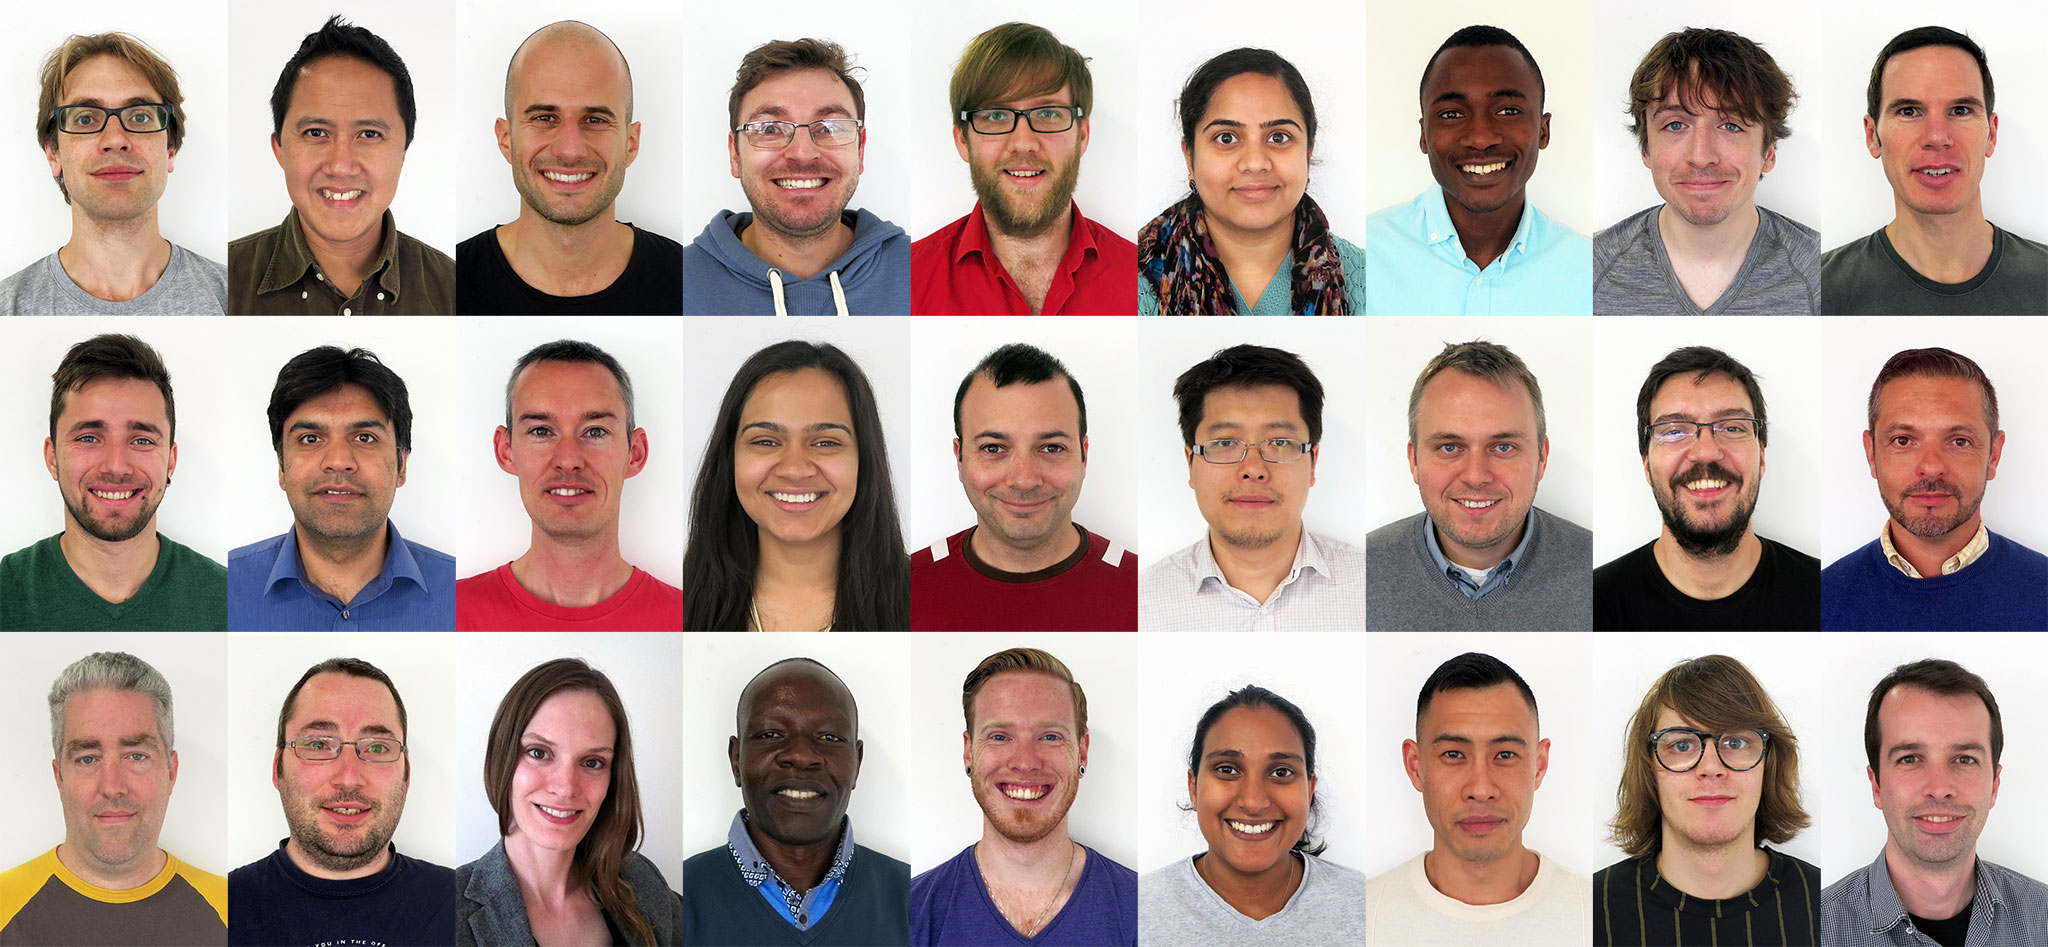
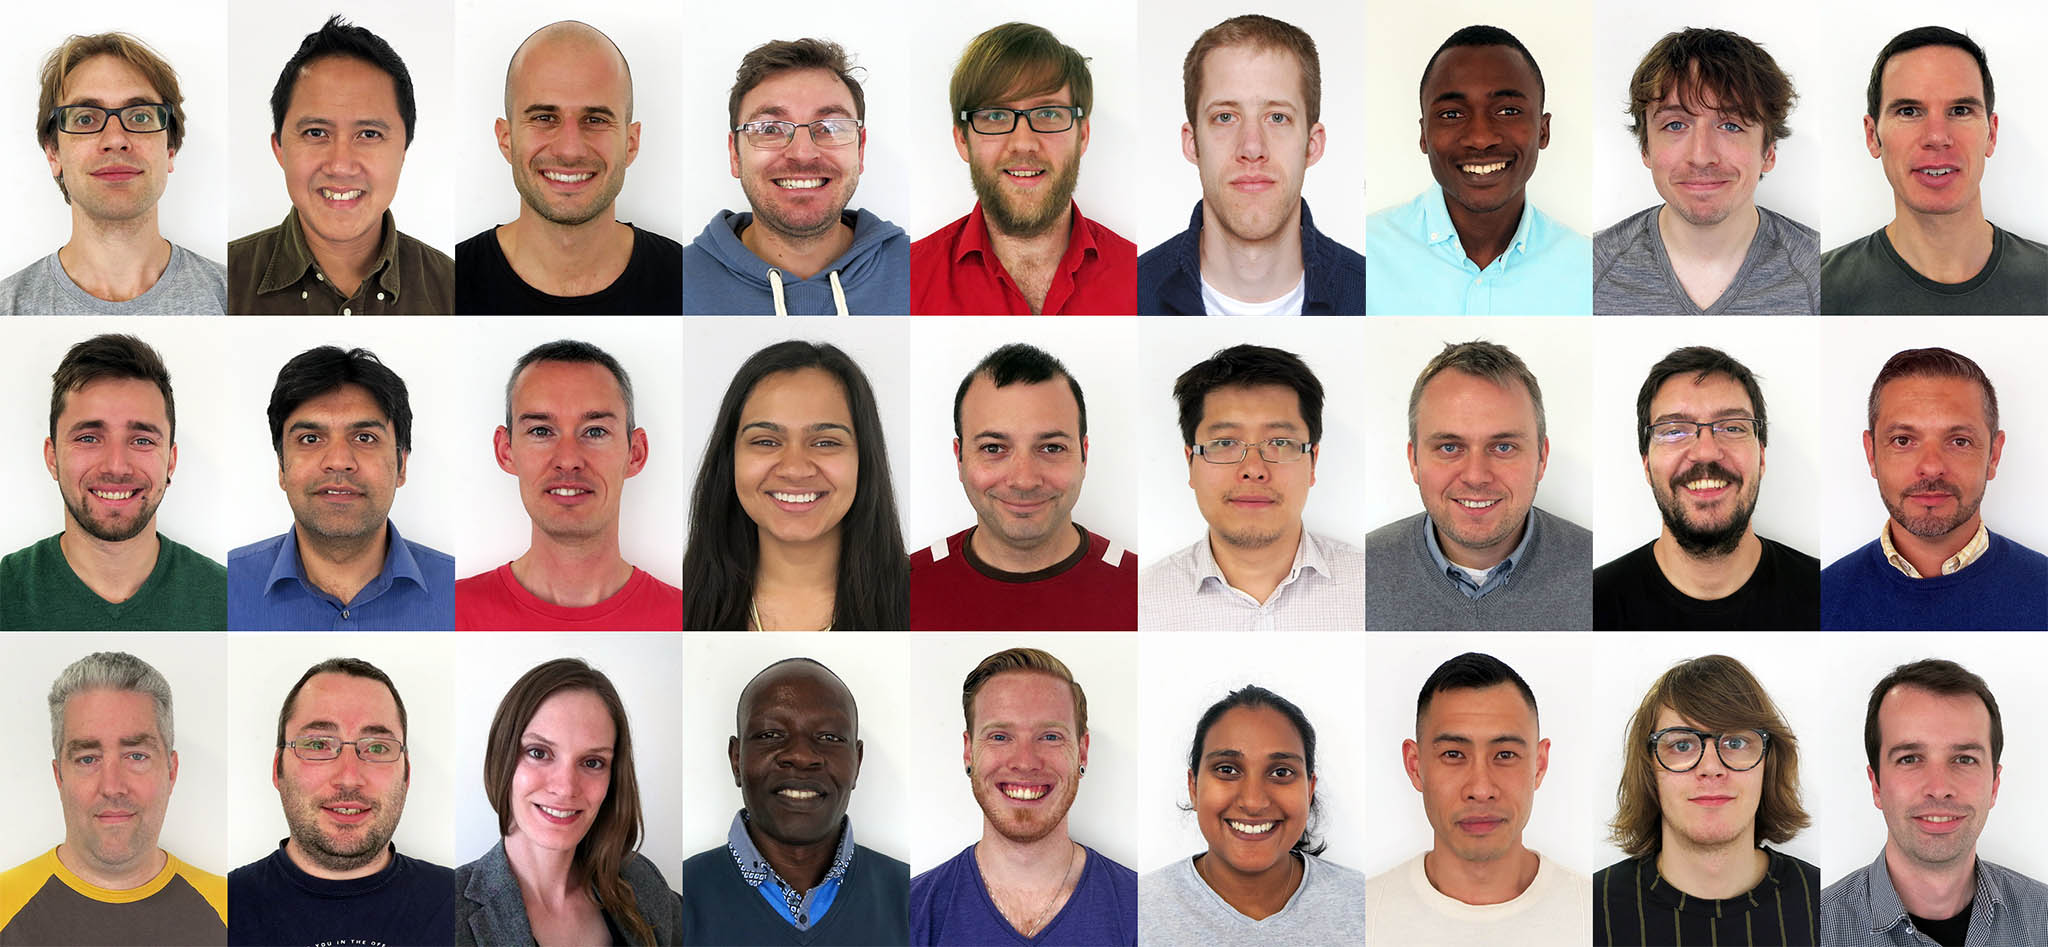
Alessio: replacing Shalini's picture with Hilverd's one - adding the title attar to the <li>

Changed region(s): [[0.5312, 0.0, 0.6875, 0.3369]]

diff --git a/assets/js/min/joinit-springer.min.js b/assets/js/min/joinit-springer.min.js
@@ -1,2 +1,2 @@
-/*! joinit-springer 2013-10-17 */
-!function(a){a.fn.fitText=function(b,c){var d=b||1,e=a.extend({minFontSize:Number.NEGATIVE_INFINITY,maxFontSize:Number.POSITIVE_INFINITY},c);return this.each(function(){var b=a(this),c=function(){b.css("font-size",Math.max(Math.min(b.width()/(10*d),parseFloat(e.maxFontSize)),parseFloat(e.minFontSize)))};c(),a(window).on("resize.fittext orientationchange.fittext",c)})}}(jQuery),function(a){a.fn.imageFlipper=function(b){var c=a.extend({rows:3,columns:9},b),d=["Jim, software engineer.","Aditya, ux designer.","Pat, technical principal.","Rob, front-end developer.","Chris, software engineer.","Shalini, quality analyst.","Uthman, quality analyst.","Dan, software engineer.","Ben, agile coach.","Cris, software engineer.","Rizwan, software engineer.","Stephen, business analyst.","Reshma, all round great person.","Brian, product owner.","Ai, software engineer.","Ross, technical architect.","Hector, platform engineer.","Paulo, ux designer.","John, software engineer.","Mike, technical architect.","Kristen, business analyst.","Charles, quality analyst.","Todd, front-end developer.","Anjalie, business analyst.","Andrew, ui designer.","Simon, platform engineer.","Rob, software engineer."];return this.each(function(){var b=a(this),e=responsiveImages.getImagePrefix({_tablet:1023,_widescreen:99999}),f=responsiveImages.buildImagePath(b.data("frontimage"),e),g=responsiveImages.buildImagePath(b.data("backimage"),e),h=a("<img/>"),i=a("<img/>"),j=b.data("cssprefix"),k=0,l=0,m=a("<ul/>").addClass("imageFlipper");h.on("load",function(){var e=this,h=responsiveImages.isRetina?2:1;l=e.height/c.rows/h,k=e.width/c.columns/h;for(var n=0,o=0,p=0;n<c.rows*c.columns;){var q=a("<li/>").css({width:k,height:l}).attr("tabIndex",0).on("click",function(){var b=a(this);b.addClass("over").siblings().removeClass("over")}).appendTo(m),r=a("<div title='"+d[n]+"'/>").appendTo(q);a("<span class='front'/>").css({backgroundImage:"url("+j+f+")",backgroundPosition:-k*p+"px -"+l*o+"px",backgroundSize:e.width/h+"px "+e.height/h+"px",width:k,height:l,display:"block"}).appendTo(r),a("<span class='back'/>").css({backgroundImage:"url("+j+g+")",backgroundPosition:-k*p+"px -"+l*o+"px",backgroundSize:e.width/h+"px "+e.height/h+"px",width:k,height:l,display:"block"}).appendTo(r),n++,o=Math.floor(n/c.columns),p=n%c.columns}i.attr("src",j+g),m.insertAfter(b)}),h.attr("src",j+f)})}}(jQuery),function(){function a(){var a=e.$w.scrollTop(),b=e.$w.innerHeight(),c=Math.floor((a+b/2-e.parFx.position().top)/e.panelHeight);e.panels.removeClass("active").eq(c).addClass("active")}function b(){var a=e.$w.innerHeight(),b=e.$w.scrollTop();$("html").innerHeight(),e.panels.each(function(){var c=$(this),d=c.position(),f=c.find("img"),g=d.top>a+b||d.top+c.innerHeight()<b;if(!g){var h=f.innerHeight()-e.panelHeight,i=h/(a/(b-d.top));f.css({"-webkit-transform":"translateY("+i+"px)","-moz-transform":"translateY("+i+"px)","-ms-transform":"translateY("+i+"px)",transform:"translateY("+i+"px)"})}})}function c(){var a=e.parFx.innerWidth();e.panelHeight=a*g.imageRatio(),e.panels.each(function(){$(this).css({height:Math.floor(e.panelHeight),"font-size":100*(a/f)+"%"})})}function d(){var a=!0;responsiveImages.noscriptHack($(".storyboards").find(".responsive"),{_smartphone:600,_tablet:1024,_widescreen:99999},function(){g.noParallax()||b()},a),responsiveImages.noscriptHack($(".our-workplace .home-section__grid, .our-culture, .home-section--our-people, .looking-for__photo").find(".responsive"),{_tablet:1024,_widescreen:99999},null,a),responsiveImages.noscriptHack($(".our-workplace .map, .our-products__product").find(".responsive"),{_tablet:1024,_widescreen:99999})}var e={},f=1440,g={mobileBreakPoint:1024,isMobile:function(){return e.$w.innerWidth()<=g.mobileBreakPoint},imageRatio:function(){return this.noParallax()?.4:.4},isTouch:"ontouchstart"in window||navigator.msMaxTouchPoints>0,isIe:$("html").is(".ie9, .lt-ie9"),ieVer:function(){for(var a=$("html"),b=null,c=7;10>c;c++)if(a.is(".ie"+c)){b=c;break}return b}(),noParallax:function(){return!0}};$().ready(function(){$("html").removeClass("no-js");var f=$("<div/>").addClass("QRcode");$("<img/>").attr({src:"https://chart.googleapis.com/chart?cht=qr&chs=75x75&chl="+location.href}).appendTo(f),$("<span/>").text(location.href).appendTo(f),f.appendTo($(".roles .home-section__heading"));var h=$(".storyboards__wrapper"),i=(h.position(),h.children(".storyboards__board")),j=$(window),k=i.eq(0).innerHeight();e={parFx:h,panels:i,$w:j,panelHeight:k,fitTexts:$(".fitText")},e.fitTexts.each(function(){var a=$(this);a.fitText(parseFloat(a.data("fittextcompressor")||1),{minFontSize:parseFloat(a.data("fittextminsize")||14)})}),j.on("resize",function(){$(document.body).toggleClass("noParallax",g.noParallax()),c(),a(),g.noParallax()||b()}),j.on("scroll",function(){a(),g.noParallax()||b()}),h.on("click","a",function(a){a.preventDefault();var b=$(this).closest(".storyboards__board").next(),c=e.$w.innerHeight();scrollTop=b.position().top-c/2+b.innerHeight()/2,$("html,body").animate({scrollTop:scrollTop},600)}),d(),(!g.ieVer||g.ieVer>8)&&$(".imageFlipper").imageFlipper(),j.resize()})}(),function(){$(document.body).toggleClass("mobile",$(window).innerWidth()<1024),window.responsiveImages={noscriptHack:function(a,b,c,d){var e=responsiveImages.getImagePrefix(b,d);a.each(function(){var a=$(this),b=a.data("imgclass"),d=a.attr("alt"),f=responsiveImages.buildImagePath(a.data("baseimg"),e),g=window.document.createElement("img"),h=$(g);c&&h.on("load",c),g.src=f,h.addClass(b).attr("alt",d).insertAfter(a)})},getImagePrefix:function(a,b){var c=1==b?!1:responsiveImages.isRetina,d=$(window).innerWidth();imgFormat="";for(var e in a)if(d<a[e]){imgFormat=e;break}return imgFormat=c?imgFormat+"@2x":imgFormat},buildImagePath:function(a,b){var c=a.split("."),d=c[0],e=c[1];return d+b+"."+e},isRetina:window.devicePixelRatio>1||window.matchMedia&&window.matchMedia("(-webkit-min-device-pixel-ratio: 1.5),(-moz-min-device-pixel-ratio: 1.5),(min-device-pixel-ratio: 1.5)").matches}}();
+/*! joinit-springer 2013-12-04 */
+!function(a){a.fn.fitText=function(b,c){var d=b||1,e=a.extend({minFontSize:Number.NEGATIVE_INFINITY,maxFontSize:Number.POSITIVE_INFINITY},c);return this.each(function(){var b=a(this),c=function(){b.css("font-size",Math.max(Math.min(b.width()/(10*d),parseFloat(e.maxFontSize)),parseFloat(e.minFontSize)))};c(),a(window).on("resize.fittext orientationchange.fittext",c)})}}(jQuery),function(a){a.fn.imageFlipper=function(b){var c=a.extend({rows:3,columns:9},b),d=["Jim, software engineer.","Aditya, ux designer.","Pat, technical principal.","Rob, front-end developer.","Chris, software engineer.","Hilverd, software engineer.","Uthman, quality analyst.","Dan, software engineer.","Ben, agile coach.","Cris, software engineer.","Rizwan, software engineer.","Stephen, business analyst.","Reshma, all round great person.","Brian, product owner.","Ai, software engineer.","Ross, technical architect.","Hector, platform engineer.","Paulo, ux designer.","John, software engineer.","Mike, technical architect.","Kristen, business analyst.","Charles, quality analyst.","Todd, front-end developer.","Anjalie, business analyst.","Andrew, ui designer.","Simon, platform engineer.","Rob, software engineer."];return this.each(function(){var b=a(this),e=responsiveImages.getImagePrefix({_tablet:1023,_widescreen:99999}),f=responsiveImages.buildImagePath(b.data("frontimage"),e),g=responsiveImages.buildImagePath(b.data("backimage"),e),h=a("<img/>"),i=a("<img/>"),j=b.data("cssprefix"),k=0,l=0,m=a("<ul/>").addClass("imageFlipper");h.on("load",function(){var e=this,h=responsiveImages.isRetina?2:1;l=e.height/c.rows/h,k=e.width/c.columns/h;for(var n=0,o=0,p=0;n<c.rows*c.columns;){var q=a("<li title='"+d[n]+"'/>").css({width:k,height:l}).attr("tabIndex",0).on("click",function(){var b=a(this);b.addClass("over").siblings().removeClass("over")}).appendTo(m),r=a("<div/>").appendTo(q);a("<span class='front'/>").css({backgroundImage:"url("+j+f+")",backgroundPosition:-k*p+"px -"+l*o+"px",backgroundSize:e.width/h+"px "+e.height/h+"px",width:k,height:l,display:"block"}).appendTo(r),a("<span class='back'/>").css({backgroundImage:"url("+j+g+")",backgroundPosition:-k*p+"px -"+l*o+"px",backgroundSize:e.width/h+"px "+e.height/h+"px",width:k,height:l,display:"block"}).appendTo(r),n++,o=Math.floor(n/c.columns),p=n%c.columns}i.attr("src",j+g),m.insertAfter(b)}),h.attr("src",j+f)})}}(jQuery),function(){function a(){var a=e.$w.scrollTop(),b=e.$w.innerHeight(),c=Math.floor((a+b/2-e.parFx.position().top)/e.panelHeight);e.panels.removeClass("active").eq(c).addClass("active")}function b(){var a=e.$w.innerHeight(),b=e.$w.scrollTop();$("html").innerHeight(),e.panels.each(function(){var c=$(this),d=c.position(),f=c.find("img"),g=d.top>a+b||d.top+c.innerHeight()<b;if(!g){var h=f.innerHeight()-e.panelHeight,i=h/(a/(b-d.top));f.css({"-webkit-transform":"translateY("+i+"px)","-moz-transform":"translateY("+i+"px)","-ms-transform":"translateY("+i+"px)",transform:"translateY("+i+"px)"})}})}function c(){var a=e.parFx.innerWidth();e.panelHeight=a*g.imageRatio(),e.panels.each(function(){$(this).css({height:Math.floor(e.panelHeight),"font-size":100*(a/f)+"%"})})}function d(){var a=!0;responsiveImages.noscriptHack($(".storyboards").find(".responsive"),{_smartphone:600,_tablet:1024,_widescreen:99999},function(){g.noParallax()||b()},a),responsiveImages.noscriptHack($(".our-workplace .home-section__grid, .our-culture, .home-section--our-people, .looking-for__photo").find(".responsive"),{_tablet:1024,_widescreen:99999},null,a),responsiveImages.noscriptHack($(".our-workplace .map, .our-products__product").find(".responsive"),{_tablet:1024,_widescreen:99999})}var e={},f=1440,g={mobileBreakPoint:1024,isMobile:function(){return e.$w.innerWidth()<=g.mobileBreakPoint},imageRatio:function(){return this.noParallax()?.4:.4},isTouch:"ontouchstart"in window||navigator.msMaxTouchPoints>0,isIe:$("html").is(".ie9, .lt-ie9"),ieVer:function(){for(var a=$("html"),b=null,c=7;10>c;c++)if(a.is(".ie"+c)){b=c;break}return b}(),noParallax:function(){return!0}};$().ready(function(){$("html").removeClass("no-js");var f=$("<div/>").addClass("QRcode");$("<img/>").attr({src:"https://chart.googleapis.com/chart?cht=qr&chs=75x75&chl="+location.href}).appendTo(f),$("<span/>").text(location.href).appendTo(f),f.appendTo($(".roles .home-section__heading"));var h=$(".storyboards__wrapper"),i=(h.position(),h.children(".storyboards__board")),j=$(window),k=i.eq(0).innerHeight();e={parFx:h,panels:i,$w:j,panelHeight:k,fitTexts:$(".fitText")},e.fitTexts.each(function(){var a=$(this);a.fitText(parseFloat(a.data("fittextcompressor")||1),{minFontSize:parseFloat(a.data("fittextminsize")||14)})}),j.on("resize",function(){$(document.body).toggleClass("noParallax",g.noParallax()),c(),a(),g.noParallax()||b()}),j.on("scroll",function(){a(),g.noParallax()||b()}),h.on("click","a",function(a){a.preventDefault();var b=$(this).closest(".storyboards__board").next(),c=e.$w.innerHeight();scrollTop=b.position().top-c/2+b.innerHeight()/2,$("html,body").animate({scrollTop:scrollTop},600)}),d(),(!g.ieVer||g.ieVer>8)&&$(".imageFlipper").imageFlipper(),j.resize()})}(),function(){$(document.body).toggleClass("mobile",$(window).innerWidth()<1024),window.responsiveImages={noscriptHack:function(a,b,c,d){var e=responsiveImages.getImagePrefix(b,d);a.each(function(){var a=$(this),b=a.data("imgclass"),d=a.attr("alt"),f=responsiveImages.buildImagePath(a.data("baseimg"),e),g=window.document.createElement("img"),h=$(g);c&&h.on("load",c),g.src=f,h.addClass(b).attr("alt",d).insertAfter(a)})},getImagePrefix:function(a,b){var c=1==b?!1:responsiveImages.isRetina,d=$(window).innerWidth();imgFormat="";for(var e in a)if(d<a[e]){imgFormat=e;break}return imgFormat=c?imgFormat+"@2x":imgFormat},buildImagePath:function(a,b){var c=a.split("."),d=c[0],e=c[1];return d+b+"."+e},isRetina:window.devicePixelRatio>1||window.matchMedia&&window.matchMedia("(-webkit-min-device-pixel-ratio: 1.5),(-moz-min-device-pixel-ratio: 1.5),(min-device-pixel-ratio: 1.5)").matches}}();

diff --git a/assets/js/imageFlipper.js b/assets/js/imageFlipper.js
@@ -22,7 +22,7 @@
     	"Pat, technical principal.",
     	"Rob, front-end developer.",
     	"Chris, software engineer.",
-    	"Shalini, quality analyst.",
+    	"Hilverd, software engineer.",
     	"Uthman, quality analyst.",
     	"Dan, software engineer.",
     	"Ben, agile coach.",
@@ -78,7 +78,7 @@
 	    		c=0;
 
 	    	while(x<settings.rows*settings.columns){
-	    		var li=$("<li/>")
+	    		var li=$("<li title='"+people[x]+"'/>")
 	    				.css({
 	    					width:tileWidth,
 	    					height:tileHeight
@@ -91,7 +91,7 @@
 	    				})
 	    				.appendTo(ul),
 
-	    			div=$("<div title='"+people[x]+"'/>").appendTo(li),
+	    			div=$("<div/>").appendTo(li),
 	    			fSpan=$("<span class='front'/>")
 	    					.css({
 	    						backgroundImage:"url(" + cssPrefix + frontImgUrl + ")",

diff --git a/assets/js/main.js b/assets/js/main.js
@@ -27,7 +27,7 @@
 			})(),
 			noParallax:function(){
 				return true;
-				return settings.isMobile()||settings.isTouch|| settings.isIe;
+				// return settings.isMobile()||settings.isTouch|| settings.isIe;
 			}
 		};
 
